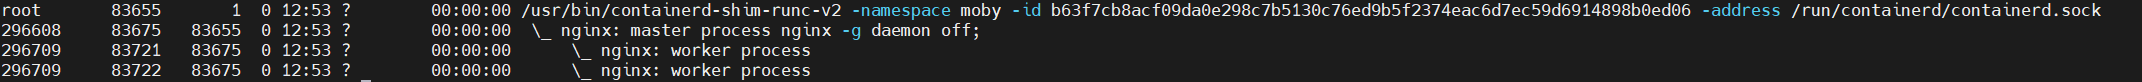
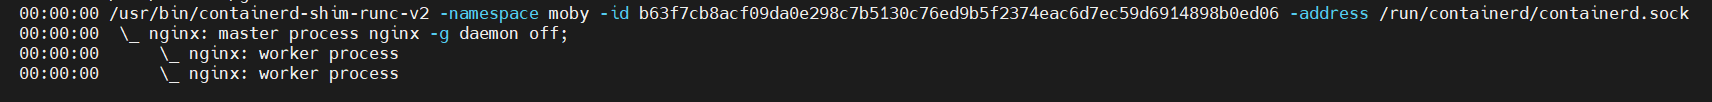
update

diff --git a/_posts/2024-05-08-container-in-depth-container-chi-la-process-p1.md b/_posts/2024-05-08-container-in-depth-container-chi-la-process-p1.md
@@ -59,21 +59,33 @@ Hoặc có thể sử dụng các công cụ kiểm tra các process Linux để
 
 # Các cách tương tác với Container process
 
-Bây giờ chúng ta biết rằng ở góc độ hệ điều hành, các container chỉ là các process - nhưng điều đó sẽ giúp gì cho chúng ta khi muốn tương tác với chúng? Việc có thể tương tác với chúng hữu ích cả trong việc khắc phục sự cố vận hành của chúng và điều tra các thay đổi trong các container đang chạy. Có một vài điều cần nhớ ở đây, nhưng điều đầu tiên là chúng ta có thể sử dụng hệ thống tệp /proc để có được thông tin chi tiết hơn về các container đang chạy trên hệ thống.
+Theo giải thích ở trên, chúng ta biết rằng ở góc độ hệ điều hành các container cũng chỉ là các process thông thường như bao process khác. Hiểu được điều này sẽ giúp gì cho chúng ta rất nhiều khi muốn tương tác với chúng? Việc có thể tương tác với các process này hữu ích cả trong việc khắc phục sự cố vận hành cũng điều tra các thay đổi trong các container đang chạy. Có một vài điểm cần nhớ ở đây, đầu tiên là chúng ta có thể sử dụng hệ thống tệp /proc để có được thông tin chi tiết hơn về các container đang chạy trên hệ thống.
 
-Hệ thống tệp tin (filesystem) /proc trong Linux là một hệ thống tệp ảo (virtual filesystem) hoặc giả ảo (pseudo filesystem) vì nó không chứa các tệp tin thực sự lưu trên ổ đĩa - thay vào đó, nó giúp cung cấp thông tin về hệ thống đang chạy. Miễn là một người dùng (user) có các quyền đặc quyền phù hợp trên một máy chủ chạy Docker thì họ có thể sử dụng /proc để truy cập thông tin về bất kỳ container nào đang chạy trên máy chủ.
+Hệ thống tệp tin (filesystem) /proc trong Linux là một hệ thống tệp ảo (virtual filesystem), nói là ảo vì nó hoàn toàn không chứa các tệp tin thực sự lưu trên ổ đĩa mà thay vào đó nó giúp cung cấp thông tin về hệ thống đang chạy. Một người dùng (user) có các quyền đặc quyền phù hợp trên một máy chủ chạy Docker hoàn toàn có thể sử dụng /proc để truy cập thông tin của bất kỳ container nào đang chạy trên máy chủ.
 
-Hãy xem một số thông tin về container NGINX chúng ta đã khởi động trước đó. Trên hệ thống thử nghiệm mà  tôi đang sử dụng, ta có thể thấy rằng ID tiến trình của nginx là **2336**. Nếu chúng ta liệt kê các tệp trong /proc, chúng ta sẽ thấy mỗi thư mục được đánh số tương ứng với mỗi tiến trình trên máy chủ, bao gồm cả tiến trình NGINX của chúng ta. Trong các thư mục này chứa một loạt các tệp và thư mục với thông tin về tiến trình đó, điều này có nghĩa là chúng ta có thể đi vào thư mục 2336 để tìm hiểu thêm về tiến trình của chúng ta.
+Bây giờ hãy áp dụng để xem một số thông tin về container NGINX chúng ta đã khởi động trước đó. Trên hệ thống thử nghiệm mà tôi đang sử dụng, có thể thấy rằng ID tiến trình của nginx là **83675**. 
 
-Việc này có thể hữu ích khi sử dụng các công cụ Linux để làm việc với các container đã được hardening ~ loại bỏ các công cụ như file editor hoặc process manager. Việc hardening image của container là một khuyến nghị bảo mật nên thực hiện, nhưng điều này làm cho việc debug/troubleshoot trở nên khó khăn hơn. Ta có thể chỉnh sửa các tệp bên trong container bằng cách truy cập vào hệ thống tệp gốc của container từ thư mục /proc trên máy chủ. Đi tới /proc/[PID]/root sẽ cho bạn danh sách thư mục của tiến trình chứa có PID đó.
+![ngix tree]({{site.url}}/assets/img/2024/05/08/4-nginx-pstree.png)
 
-Trong trường hợp này, chạy sudo ls /proc/2336/root sẽ cho ta kết quả là một danh sách trông giống như sau:
+Nếu chúng ta liệt kê các tệp trong /proc, chúng ta sẽ thấy mỗi thư mục được đánh số tương ứng với mỗi tiến trình trên máy chủ, bao gồm cả tiến trình NGINX của chúng ta. Trong các thư mục này chứa một loạt các tệp và thư mục với thông tin về tiến trình đó, điều này có nghĩa là chúng ta có thể đi vào thư mục 2336 để tìm hiểu thêm về tiến trình của chúng ta.
+
+![proc]({{site.url}}/assets/img/2024/05/08/4-proc.png)
+
+Việc này có thể hữu ích khi sử dụng các công cụ Linux để làm việc với các container đã được hardening ~ loại bỏ các công cụ như file editor hoặc process manager. Việc hardening image của container là một khuyến nghị bảo mật nên thực hiện, nhưng điều này làm cho việc debug/troubleshoot trở nên khó khăn hơn so với debug trên host linux thông thường. Ta có thể chỉnh sửa các tệp bên trong container bằng cách truy cập vào hệ thống tệp gốc của container từ thư mục /proc trên máy chủ. Đi tới /proc/[PID]/root sẽ cho bạn danh sách thư mục của tiến trình chứa có PID đó. Trong trường hợp này, chạy ```sudo ls /proc/83675/root``` sẽ cho ta kết quả là một danh sách trông giống như sau:
+
+![proc root]({{site.url}}/assets/img/2024/05/08/4-pstree-nginx-root.png)
 
 Bây giờ, nếu chúng ta sử dụng lệnh touch để thêm một tệp vào thư mục này, chúng ta có thể xác nhận rằng nó đã được thêm bằng cách sử dụng lệnh docker exec để liệt kê các tệp trong container. Kỹ thuật này có thể được sử dụng để thực hiện các thao tác như chỉnh sửa các tệp cấu hình trong các container từ máy chủ.
 
+![proc root touch]({{site.url}}/assets/img/2024/05/08/4-pstree-nginx-root-touch.png)
+
 Và đây là một lợi ích khác của việc nhìn các container là process thông thường: Chúng ta có thể sử dụng các công cụ ở mức máy chủ để kill các process mà không cần sử dụng các công cụ của container. Điều này có thể không phải là cách hay, nên sử dụng trong các trường hợp thông thường, vì nó có thể ảnh hưởng đến các chính sách như Docker restart policy, nhưng có thể có những lúc cần thiết sử dụng.
 
-Ví dụ: Hãy kill container NGINX của ta bằng cách sử dụng lệnh sudo kill 2336. Sau đó, chúng ta có thể chạy docker ps để xác nhận rằng container của chúng ta không còn tồn tại nữa.
+Ví dụ: Hãy kill container NGINX của ta bằng cách sử dụng lệnh sudo kill 83675. Sau đó, chúng ta có thể chạy docker ps để xác nhận rằng container của chúng ta không còn tồn tại nữa.
+
+
+![proc root kill]({{site.url}}/assets/img/2024/05/08/4-pstree-nginx-root-kill.png)
+
 
 # Những thông tin trên có ích gì cho security cho docker?
 
